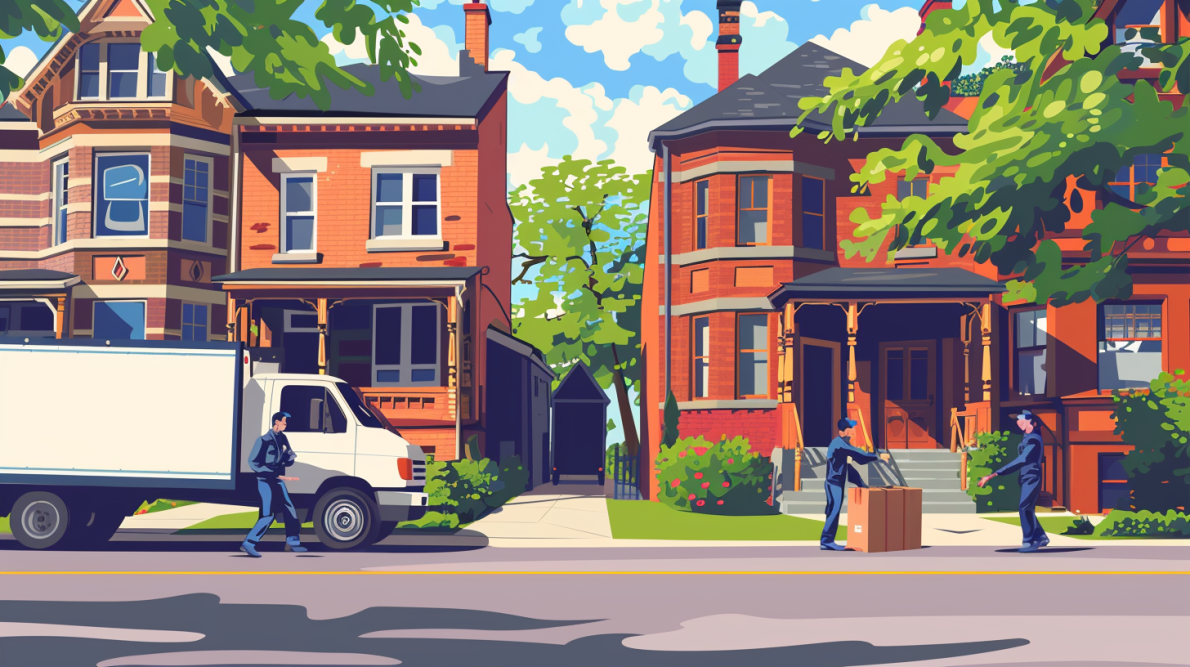
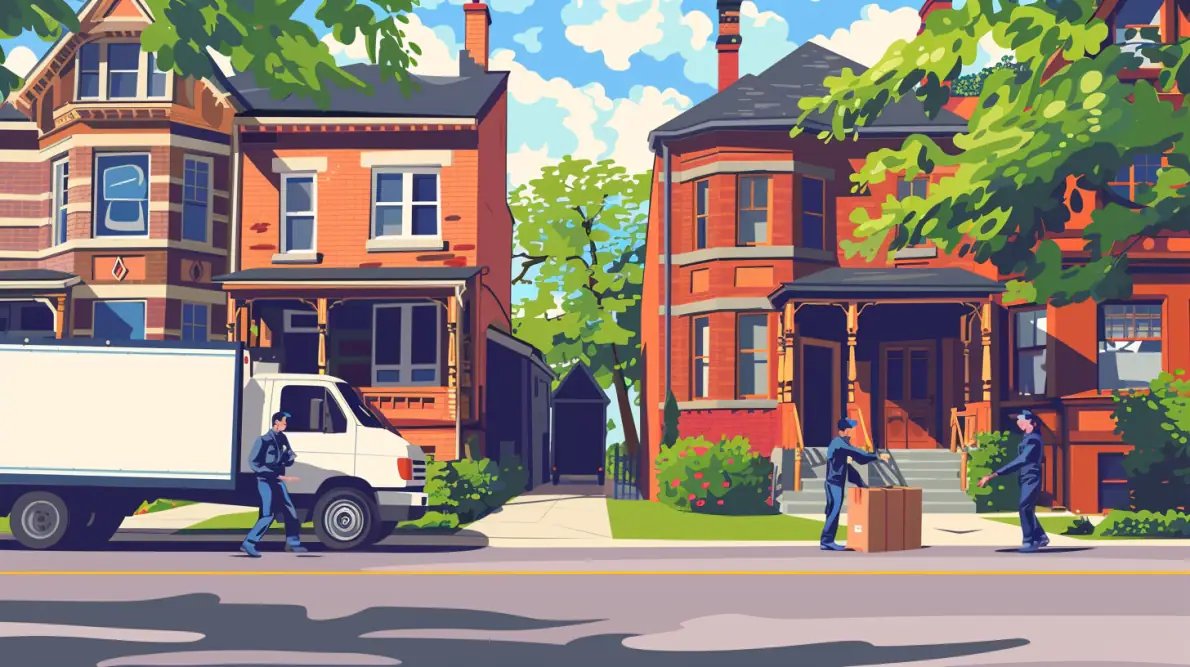
Add image to Hamilton single-item movers blog post
Compressed the supplied image (759KB -> 71KB) and set image_url so it shows as the post hero, blog-index thumbnail, and Hamilton city-section card.

diff --git a/hamilton/index.html b/hamilton/index.html
@@ -1064,7 +1064,7 @@ h1, h2, h3, h4 {
     <h2 class="section-heading" style="text-align:center;">Moving Tips for Hamilton</h2>
     <div class="city-blog-grid">
 <a class="city-blog-card" href="/blog/single-item-movers-hamilton/">
-  <div class="city-blog-thumb"></div>
+  <div class="city-blog-thumb"><img src="/assets/blog/single-item-movers-hamilton.webp" alt="Single Item Movers in Hamilton: What We Can Move (And What It Costs)" loading="lazy"></div>
   <div class="city-blog-body">
     <h3>Single Item Movers in Hamilton: What We Can Move (And What It Costs)</h3>
     <p>Here&#x27;s what that looks like for five of the most common single-item moves in Hamilton.</p>

diff --git a/blog/single-item-movers-hamilton/index.html b/blog/single-item-movers-hamilton/index.html
@@ -844,7 +844,7 @@ h1, h2, h3, h4 {
     </a>
   </div>
 </header>
-
+<div class="post-hero"><img src="/assets/blog/single-item-movers-hamilton.webp" alt="Single Item Movers in Hamilton: What We Can Move (And What It Costs)"></div>
 <div class="post-wrap">
   <a class="post-back" href="/blog/"><svg width="16" height="16" viewBox="0 0 24 24" fill="none" stroke="currentColor" stroke-width="2.5" stroke-linecap="round" stroke-linejoin="round"><line x1="19" y1="12" x2="5" y2="12"/><polyline points="12 19 5 12 12 5"/></svg> Back to all posts</a>
   

diff --git a/blog/index.html b/blog/index.html
@@ -852,7 +852,7 @@ h1, h2, h3, h4 {
   <div class="container">
     <div class="blog-grid">
 <a class="blog-card" href="/blog/single-item-movers-hamilton/">
-  <div class="thumb"></div>
+  <div class="thumb"><img src="/assets/blog/single-item-movers-hamilton.webp" alt="Single Item Movers in Hamilton: What We Can Move (And What It Costs)" loading="lazy"></div>
   <div class="body">
     
     <h2>Single Item Movers in Hamilton: What We Can Move (And What It Costs)</h2>
